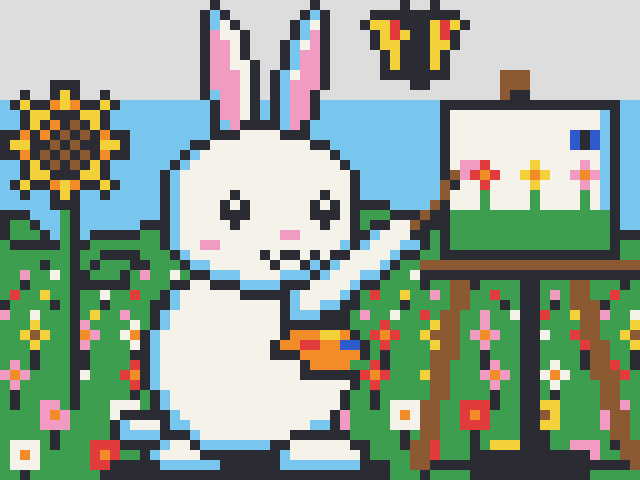
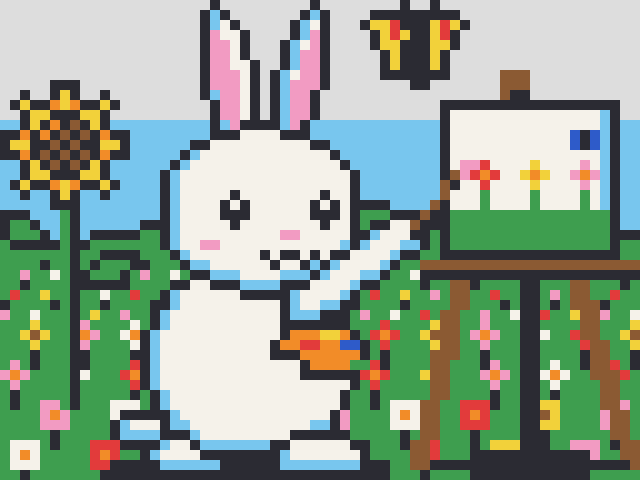
あまいものあつめ：足す絵（途中の成果。絵 E の 8 枚ほか）
Claude-Session: https://claude.ai/code/session_0124oYPGv8Bi2S4uXrxJYBuT

diff --git a/docs/plans/amai-more2/usagihanabatakebooru.py b/docs/plans/amai-more2/usagihanabatakebooru.py
@@ -748,7 +748,7 @@ def bg_forest_open(gy=33, top=6, trunks=(2, 13), canopy_x=(-3, 22)):
 # ---- この絵 ----
 # はなばたけで うさぎが ボールで あそぶ：花の中に すわった うさぎが、小道を ころがってきた ボールを 手で とめる。場所の物は ひまわり と ちょうちょ。
 GY = 24
-bg_flower(GY, top=9, clouds=((44, 2, 0.9),), path=(54, 46, 16), seed=1)
+bg_flower(GY, top=10, clouds=((44, 2, 0.9),), path=(54, 46, 16), seed=1)
 sunflower(5, 45, 20, 4)
 butterfly(55, 13, 'B', 'P')
 shadow(26, 47, 14, 1.4, 'GKRPYWO', 'K', 1.0)

diff --git a/docs/plans/amai-more2/usagihanabatakeoekaki.py b/docs/plans/amai-more2/usagihanabatakeoekaki.py
@@ -713,7 +713,7 @@ def cake(cx, by, w=6):
 # ---- この絵 ----
 # はなばたけで うさぎが おえかきを する：花の中に すわった うさぎが、イーゼルの紙に 花と ちょうを 描く。場所の物は ひまわり と ちょうちょ の 2 つ（＋イーゼル）。
 GY = 25
-bg_flower(GY, top=10, path=(0, 0, 0))
+bg_flower(GY, top=12, path=(0, 0, 0))
 sunflower(6, 14, 4, by=40)
 butterfly(41, 2, 'Y', 'R')
 easel(44, 10, 61, 25, 46, art_flower)
